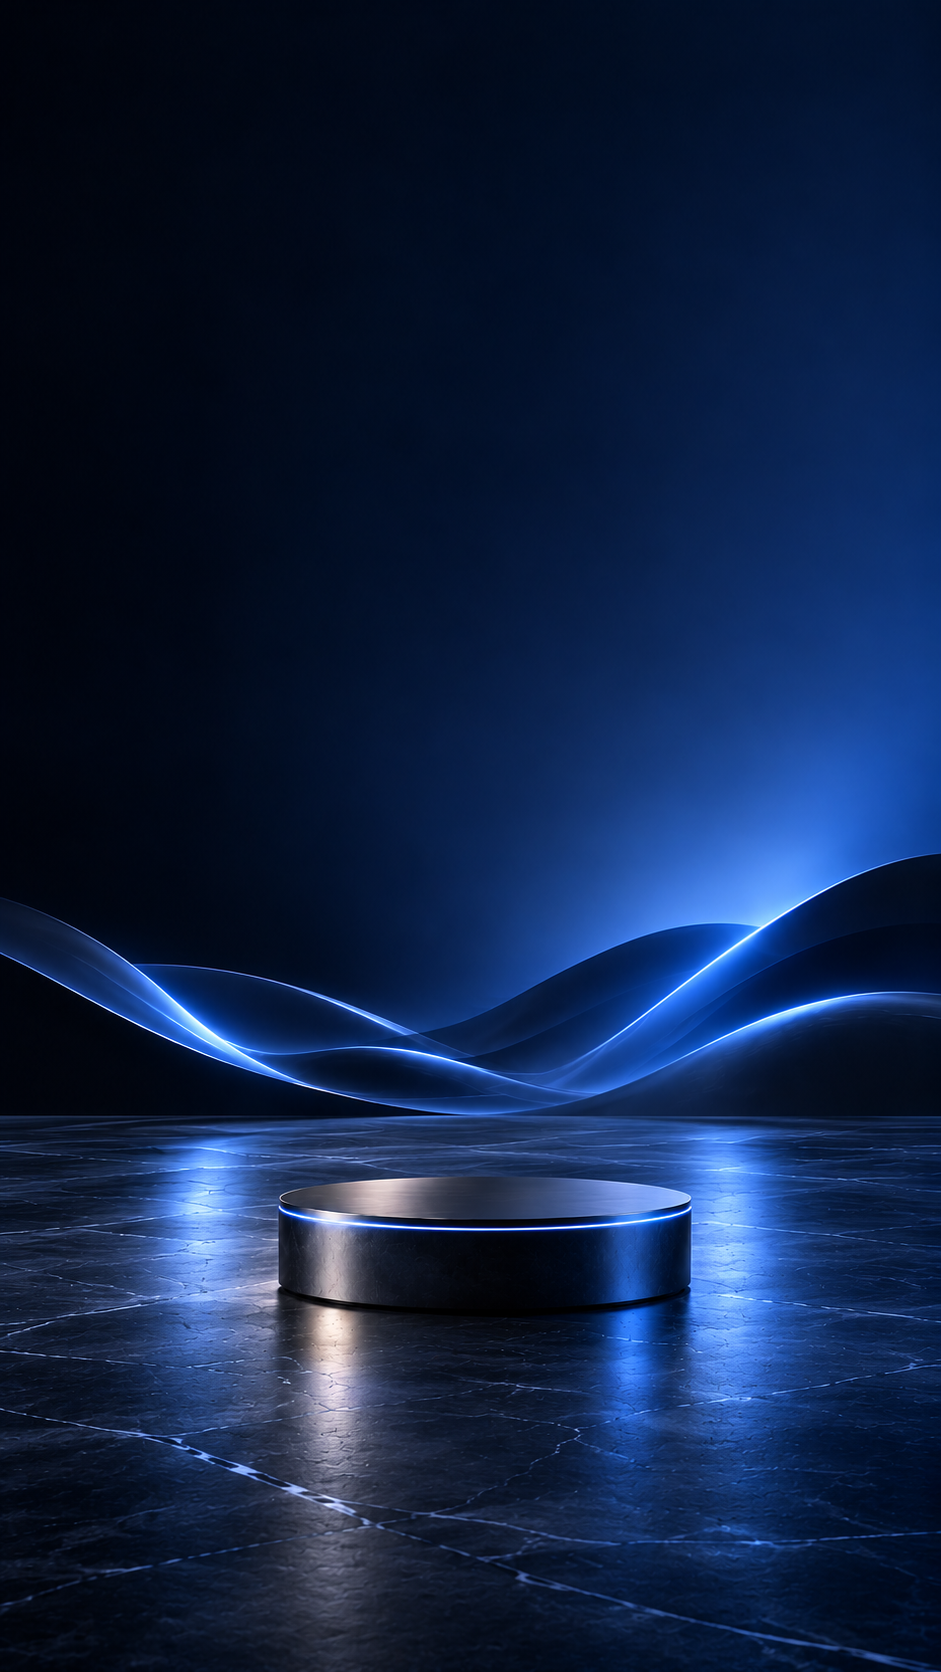
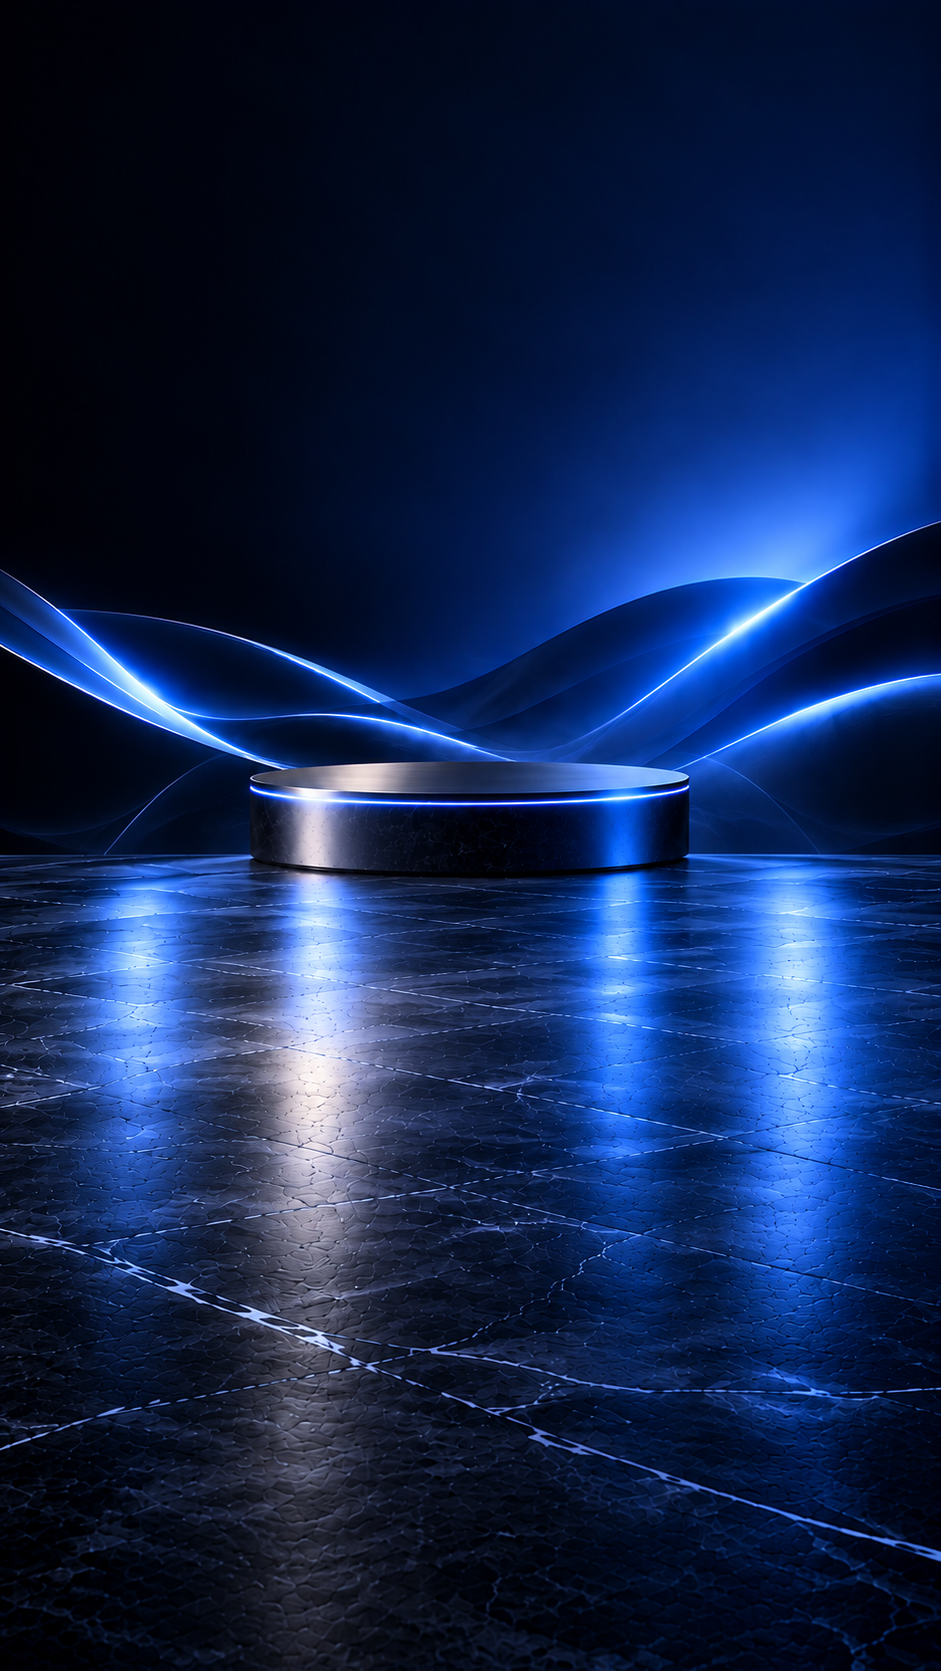
Update mobile

diff --git a/src/App.css b/src/App.css
@@ -138,3 +138,73 @@ h1 span { color: var(--blue); }
 /* Nudge only the header logo and left-side hero copy downward. */
 .site-header .brand,
 .hero-copy { transform: translateY(clamp(25px, 3.9vh, 35px)); }
+
+/* Mobile-only composition: keep the original orbit below the hero copy. */
+@media (max-width: 768px) {
+  .page-shell {
+    overflow-y: auto;
+  }
+
+  .hero { min-height: 100dvh; padding-bottom: 20px; }
+
+  .visual-stage {
+    flex: 0 0 clamp(360px, 92vw, 430px);
+    align-self: center;
+    width: calc(100% + 40px);
+    height: clamp(360px, 92vw, 430px);
+    min-height: 0;
+    margin: clamp(24px, 6vw, 40px) -20px 0;
+    transform: none;
+  }
+
+  .orbit-ring,
+  .orbit-particle { display: block; }
+
+  .orbit-system,
+  .orbit-rotator {
+    display: block;
+  }
+
+  .orbit-ring { aspect-ratio: 1; }
+  .orbit-system { --card-width: clamp(92px, 24.5vw, 110px); --orbit-squash: 1; --counter-stretch: 1; }
+  .orbit-counter {
+    transform: rotate(calc(var(--angle) * -1));
+    animation: counter-orbit 30s linear infinite;
+  }
+
+  .laptop-art {
+    position: absolute;
+    left: 50%;
+    top: var(--visual-center-y);
+    width: min(50vw, 220px);
+    transform: translate(-50%, -50%);
+  }
+
+  .service-card {
+    width: 100%;
+    min-height: 46px;
+    gap: 5px;
+    padding: 5px;
+    border-radius: 12px;
+  }
+
+  .service-icon { flex-basis: 26px; width: 26px; height: 26px; border-radius: 9px; }
+  .service-icon svg { width: 15px; height: 15px; }
+  .service-name { font-size: clamp(8px, 2.2vw, 9px); line-height: 1.12; }
+
+  .orbit-position:nth-child(5) { --card-width: clamp(110px, 30vw, 130px); --card-height: 56px; }
+  .orbit-position:nth-child(5) .service-card { gap: 6px; padding: 6px 7px; }
+  .orbit-position:nth-child(5) .service-icon { flex-basis: 31px; width: 31px; height: 31px; border-radius: 10px; }
+  .orbit-position:nth-child(5) .service-icon svg { width: 18px; height: 18px; }
+  .orbit-position:nth-child(5) .service-name { font-size: clamp(10px, 2.7vw, 11px); line-height: 1.15; }
+}
+
+@media (max-width: 360px) {
+  .visual-stage { flex-basis: 350px; height: 350px; margin-top: 22px; }
+  .laptop-art { width: min(48vw, 190px); }
+  .service-card { width: 100%; min-height: 44px; padding: 5px; gap: 4px; }
+  .service-icon { flex-basis: 24px; width: 24px; height: 24px; }
+  .service-icon svg { width: 14px; height: 14px; }
+  .service-name { font-size: 8.8px; }
+  .orbit-position:nth-child(5) { --card-width: 114px; --card-height: 54px; }
+}
